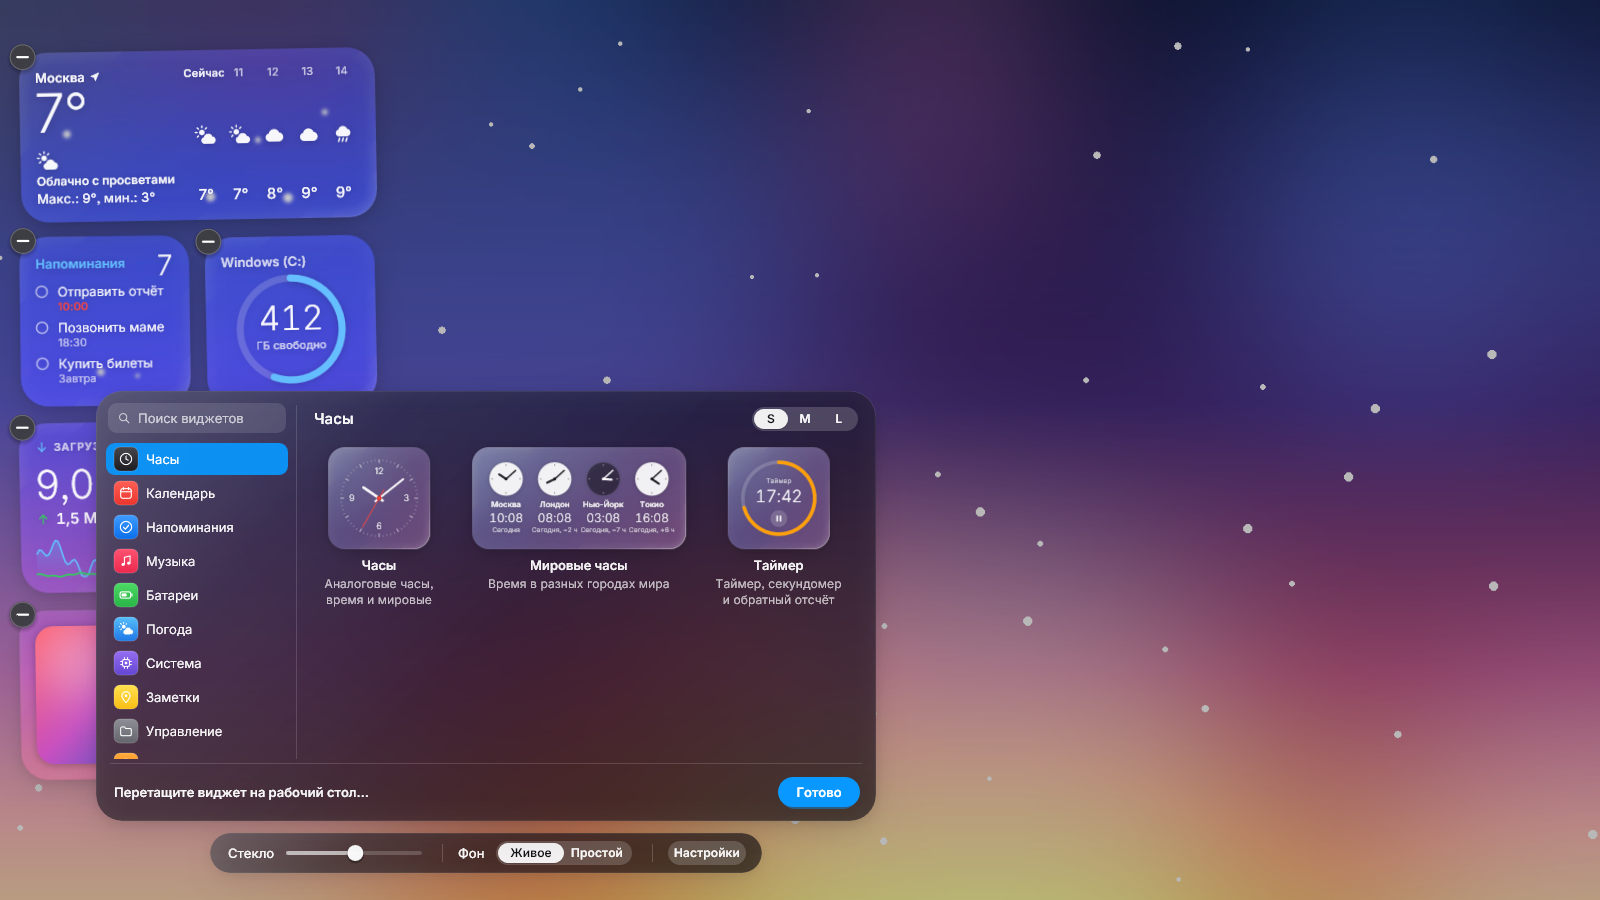
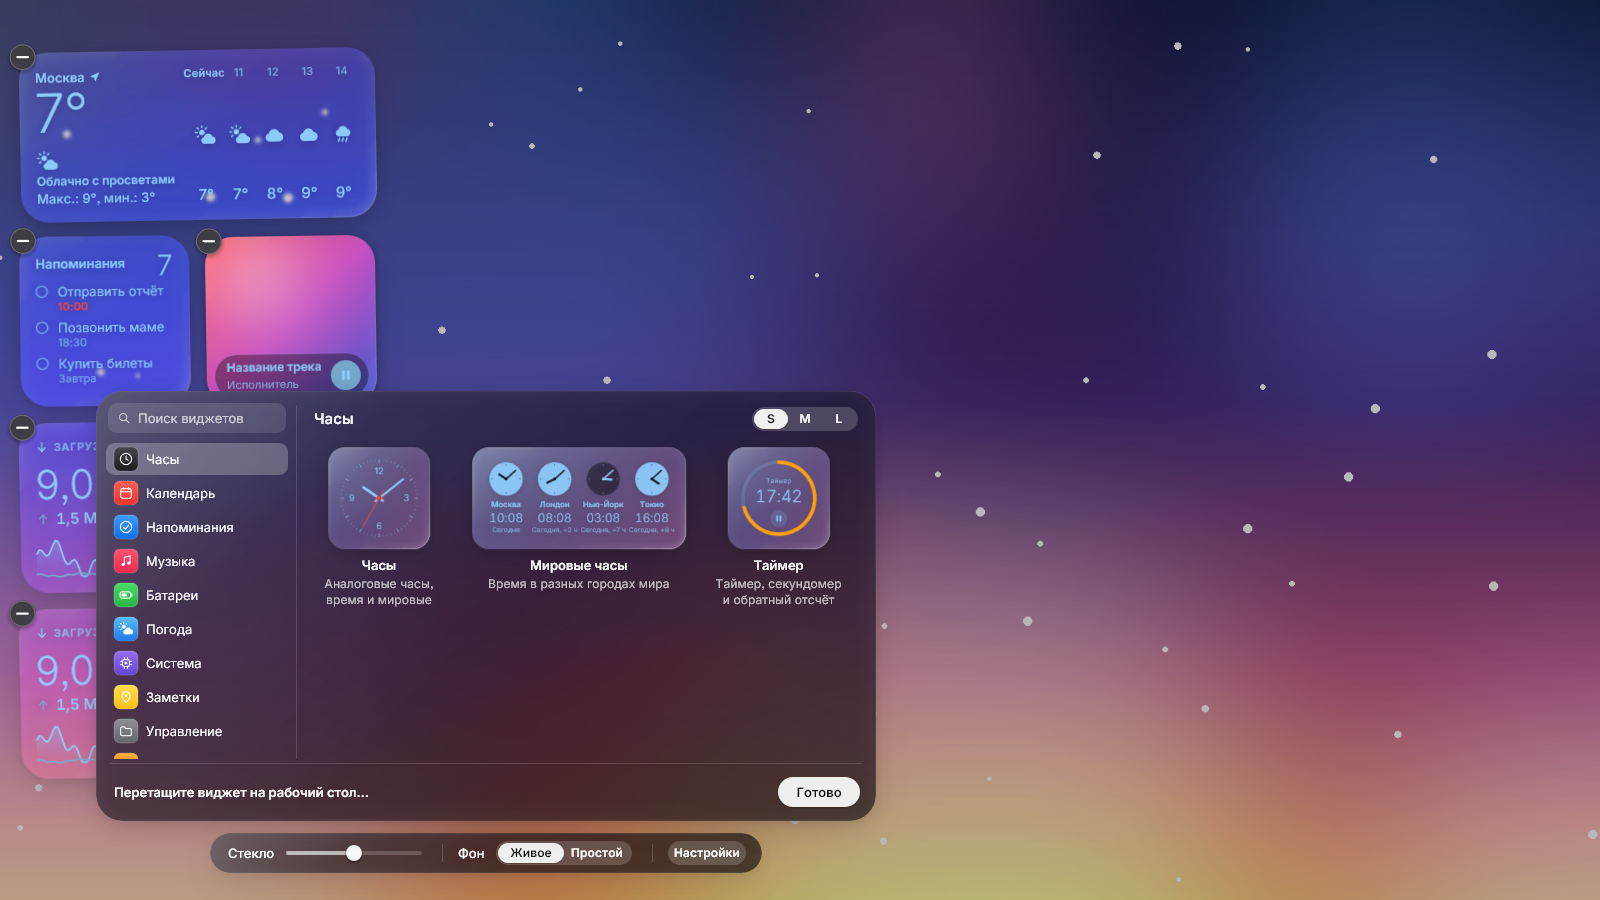
Release 0.5.4: neutral gallery and settings chrome
Panels draw through a plain Cx that ignores accentScope "all"; selection, Done,
the add badge and focus rings are white glass instead of the wallpaper accent.
Removed accent_fill / accent::fill (no callers left).

Claude-Session: https://claude.ai/code/session_01KhjhPemefduzY42RFZvTNC

diff --git a/src/ui.rs b/src/ui.rs
@@ -281,6 +281,18 @@ pub struct Ui {
 }
 
 /// Per-group sidebar icon colours (top, bottom).
+/// Selected row of the gallery: a lighter glass, no accent (the panels stay neutral on any wallpaper).
+const SEL: Color = Color::rgba(1.0, 1.0, 1.0, 0.24);
+/// Text on a white button / segment.
+const ON_WHITE: Color = Color::rgba(0.07, 0.07, 0.09, 1.0);
+
+/// The "Done" button of both panels: white glass pill with dark text (like the selected segment).
+fn done_button(cx: &Cx, r: Rect, label: &str, hot: bool) {
+    cx.pill(r.offset(0.0, 1.5), Color::rgba(0.0, 0.0, 0.0, 0.20));
+    cx.pill(r, Color::rgba(1.0, 1.0, 1.0, if hot { 1.0 } else { 0.92 }));
+    cx.text(r, label, Style::new(13.0, 600).center(), ON_WHITE);
+}
+
 fn group_colors(id: &str) -> (Color, Color) {
     let c = |r: u8, g: u8, b: u8| Color::rgb8(r, g, b);
     match id {
@@ -1300,7 +1312,7 @@ impl Ui {
                 cx.pill(c.offset(0.0, 1.0), Color::rgba(0.0, 0.0, 0.0, 0.18));
                 cx.pill(c, Color::rgba(1.0, 1.0, 1.0, 0.92));
             }
-            cx.text(c, txt, Style::new(11.5, 600).center(), if *on { Color::rgba(0.07, 0.07, 0.09, 1.0) } else { TEXT });
+            cx.text(c, txt, Style::new(11.5, 600).center(), if *on { ON_WHITE } else { TEXT });
         }
     }
 
@@ -1344,7 +1356,7 @@ impl Ui {
             cx.circle((kx, tb.track.cy() + 1.5), 9.0, Color::rgba(0.0, 0.0, 0.0, 0.25));
             cx.circle((kx, tb.track.cy()), 8.0, Color::rgba(1.0, 1.0, 1.0, 0.97));
             if self.sfocus == Some(0) {
-                cx.circle_stroke((kx, tb.track.cy()), 11.5, 2.0, accent().alpha(0.95));
+                cx.circle_stroke((kx, tb.track.cy()), 11.5, 2.0, Color::rgba(1.0, 1.0, 1.0, 0.70));
             }
             cx.rect(tb.sep, FILL);
             cx.text(tb.label_bg, self.t("Фон", "Back"), Style::new(12.5, 500), TEXT);
@@ -1378,7 +1390,7 @@ impl Ui {
         cx.circle((kx, t.cy() + 1.5), kr + 1.0, Color::rgba(0.0, 0.0, 0.0, 0.25));
         cx.circle((kx, t.cy()), kr, Color::rgba(1.0, 1.0, 1.0, 0.97));
         if focus {
-            cx.circle_stroke((kx, t.cy()), kr + 3.5, 2.0, accent().alpha(0.95));
+            cx.circle_stroke((kx, t.cy()), kr + 3.5, 2.0, Color::rgba(1.0, 1.0, 1.0, 0.70));
         }
     }
 
@@ -1493,12 +1505,10 @@ impl Ui {
             cx.text(l.upd_status, &msg, Style::new(12.0, 500).ellipsis(), color);
             if matches!(self.update, UpdateState::Available { .. }) {
                 self.set_button(cx, l.upd_page, self.t("О релизе", "Release page"), hv == Hit::UpdPage, pr == Hit::UpdPage, DIM);
-                self.set_button(cx, l.upd_dl, self.t("Обновить", "Update now"), hv == Hit::UpdInstall, pr == Hit::UpdInstall, accent());
+                self.set_button(cx, l.upd_dl, self.t("Обновить", "Update now"), hv == Hit::UpdInstall, pr == Hit::UpdInstall, TEXT);
             }
             let hot = hv == Hit::Done || pr == Hit::Done;
-            cx.pill(l.done.offset(0.0, 2.0).inset_xy(2.0, 0.0), accent_fill(false).alpha(0.40));
-            cx.pill(l.done, accent_fill(hot));
-            cx.text(l.done, self.t("Готово", "Done"), Style::new(13.0, 600).center(), WHITE);
+            done_button(cx, l.done, self.t("Готово", "Done"), hot);
         });
         if layer {
             unsafe { gfx.dc.PopLayer() };
@@ -1522,8 +1532,8 @@ impl Ui {
             let focus = self.st.focus;
             cx.rrect(l.search, 9.0, Color::rgba(1.0, 1.0, 1.0, if focus { 0.16 } else { 0.12 }));
             if focus {
-                cx.rrect_stroke(l.search.inset(-2.0), 11.0, 3.0, accent().alpha(0.30));
-                cx.rrect_stroke(l.search, 9.0, 1.6, accent().alpha(0.95));
+                cx.rrect_stroke(l.search.inset(-2.0), 11.0, 3.0, Color::rgba(1.0, 1.0, 1.0, 0.16));
+                cx.rrect_stroke(l.search, 9.0, 1.4, Color::rgba(1.0, 1.0, 1.0, 0.70));
             }
             cx.icon(Glyph::Search, Rect::new(l.search.x + 9.0, l.search.cy() - 7.0, 14.0, 14.0), DIM);
             let text_area = Rect::new(l.search.x + 30.0, l.search.y, l.search.w - 38.0, l.search.h);
@@ -1535,7 +1545,7 @@ impl Ui {
             } else {
                 let tw = cx.measure(&q, Style::BODY, 4096.0).0;
                 if self.st.query.sel_all {
-                    cx.rrect(Rect::new(text_area.x - off - 1.0, text_area.cy() - 9.0, tw + 2.0, 18.0), 4.0, accent_fill(false).alpha(0.75));
+                    cx.rrect(Rect::new(text_area.x - off - 1.0, text_area.cy() - 9.0, tw + 2.0, 18.0), 4.0, Color::rgba(1.0, 1.0, 1.0, 0.30));
                 }
                 cx.text(Rect::new(text_area.x - off, text_area.y, 4096.0, text_area.h), &q, Style::BODY, TEXT);
             }
@@ -1557,7 +1567,7 @@ impl Ui {
                 }
                 let sel = !searching && cur == Some(g.id);
                 if sel {
-                    cx.rrect(r, 9.0, accent_fill(false).alpha(0.92));
+                    cx.rrect(r, 9.0, SEL);
                 } else if self.hover == Hit::Group(i) {
                     cx.rrect(r, 9.0, FILL);
                 }
@@ -1605,9 +1615,9 @@ impl Ui {
                     cx.rrect_stroke(it.pv.inset(-2.0), 17.0 * K + 2.0, 1.4, Color::rgba(1.0, 1.0, 1.0, 0.35));
                     let b = (it.pv.x + 14.0, it.pv.y + 14.0);
                     cx.circle((b.0, b.1 + 1.0), 12.0, Color::rgba(0.0, 0.0, 0.0, 0.25));
-                    cx.circle(b, 11.0, accent_fill(false).alpha(0.97));
-                    cx.line((b.0 - 4.6, b.1), (b.0 + 4.6, b.1), 1.9, WHITE);
-                    cx.line((b.0, b.1 - 4.6), (b.0, b.1 + 4.6), 1.9, WHITE);
+                    cx.circle(b, 11.0, Color::rgba(1.0, 1.0, 1.0, 0.95));
+                    cx.line((b.0 - 4.6, b.1), (b.0 + 4.6, b.1), 1.9, ON_WHITE);
+                    cx.line((b.0, b.1 - 4.6), (b.0, b.1 + 4.6), 1.9, ON_WHITE);
                 }
                 cx.text(it.title, self.t(def.name.0, def.name.1), Style::new(12.5, 600).center().ellipsis(), TEXT);
                 cx.clip(it.desc);
@@ -1620,9 +1630,7 @@ impl Ui {
             cx.rect(Rect::new(p.x + 14.0, p.bottom() - FOOT_H, p.w - 28.0, 0.8), FILL);
             cx.text(l.hint, self.t("Перетащите виджет на рабочий стол…", "Drag a widget to place it on the desktop…"), Style::new(12.5, 600).ellipsis(), TEXT);
             let hot = self.hover == Hit::Done || self.press == Hit::Done;
-            cx.pill(l.done.offset(0.0, 2.0).inset_xy(2.0, 0.0), accent_fill(false).alpha(0.40));
-            cx.pill(l.done, accent_fill(hot));
-            cx.text(l.done, self.t("Готово", "Done"), Style::new(13.0, 600).center(), WHITE);
+            done_button(cx, l.done, self.t("Готово", "Done"), hot);
         });
         if layer {
             unsafe { gfx.dc.PopLayer() };
@@ -1725,24 +1733,6 @@ mod tests {
         let s0 = ui.panel_rect();
         ui.move_panel(10.0, 10.0);
         assert!(ui.panel_rect().x < s0.x && ui.gallery_rect().y == p.y);
-    }
-
-    /// The panel chrome (Done, selection, focus rings) and the text prompt's accent take the colour of `set_accent`, not a fixed blue. This is the only
-    /// test that moves the process-wide accent (it puts the default back).
-    #[test]
-    fn panel_chrome_follows_the_accent() {
-        set_accent(None);
-        let (blue, blue_hot, blue_ring, blue_prompt) = (accent_fill(false), accent_fill(true), accent(), crate::input::acc(1.0));
-        assert!(blue.b > blue.r && blue_ring.b > blue_ring.r && blue_prompt.b > blue_prompt.r);
-        assert!(blue_hot.r + blue_hot.g + blue_hot.b > blue.r + blue.g + blue.b, "hover is lighter");
-        assert!(set_accent(Some([230, 70, 70])), "a new accent reports a change");
-        let (red, red_hot, red_ring, red_prompt) = (accent_fill(false), accent_fill(true), accent(), crate::input::acc(1.0));
-        for c in [red.r > red.b && red.r > red.g, red_hot.r > red_hot.b, red_ring.r > red_ring.b && red_ring.r > red_ring.g, red_prompt.r > red_prompt.b && red_prompt.r > red_prompt.g] {
-            assert!(c, "chrome stays blue after set_accent");
-        }
-        assert!((red_ring.r, red_ring.g, red_ring.b) == (red_prompt.r, red_prompt.g, red_prompt.b) && red.r < red_ring.r + 0.01 && red.r + red.g + red.b < red_ring.r + red_ring.g + red_ring.b, "the fill is the deeper shade of the ring");
-        set_accent(None);
-        assert_eq!((accent_fill(false).b > accent_fill(false).r, accent().b > accent().r), (true, true));
     }
 
     /// The hit map of edit mode on a real scene: card body, "−" button, gallery controls, previews, settings strip, empty desk.

diff --git a/src/widget.rs b/src/widget.rs
@@ -399,13 +399,6 @@ pub fn accent() -> Color {
 pub fn set_accent(rgb: Option<[u8; 3]>) -> bool {
     ACCENT_NOW.swap(pack_rgb(rgb.unwrap_or(ACCENT_RGB)), Ordering::Relaxed) != pack_rgb(rgb.unwrap_or(ACCENT_RGB))
 }
-/// The accent for the panels' chrome that carries white text or a selection (Done, the selected gallery group, the add badge): the same hue
-/// as `accent()`, darker so white reads on it; `hot` = lighter (pointer over it).
-pub fn accent_fill(hot: bool) -> Color {
-    let v = ACCENT_NOW.load(Ordering::Relaxed);
-    let c = crate::accent::fill([(v >> 16) as u8, (v >> 8) as u8, v as u8], if hot { 0.07 } else { 0.0 });
-    Color::rgb8(c[0], c[1], c[2])
-}
 /// dark text on a light/cream fill (today circle, buttons)
 pub const INK: Color = Color::rgba(20.0 / 255.0, 20.0 / 255.0, 24.0 / 255.0, 0.92);
 pub const BLACK: Color = Color::rgba(0.0, 0.0, 0.0, 1.0);
@@ -802,6 +795,8 @@ pub struct Cx<'a> {
     clips: RefCell<Vec<bool>>,
     /// the card is in its light (milky glass) appearance: palette whites become dark ink (see `Cx::ink`)
     light: bool,
+    /// host chrome (gallery, settings, strip): never tinted by `accentScope` "all"
+    pub(crate) plain: bool,
 }
 
 /// Row-vector matrix product: apply `a` first, then `b`.
@@ -866,6 +861,7 @@ impl<'a> Cx<'a> {
             cur: Cell::new(p.base),
             clips: RefCell::new(Vec::new()),
             light: p.light,
+            plain: false,
         }
     }
 
@@ -993,7 +989,7 @@ impl<'a> Cx<'a> {
     /// deeper. Identity in the dark appearance.
     fn ink(&self, c: Color) -> Color {
         let c = self.ink_plain(c);
-        if TINT.load(Ordering::Relaxed) {
+        if !self.plain && TINT.load(Ordering::Relaxed) {
             tinted(c, self.light)
         } else {
             c

diff --git a/src/accent.rs b/src/accent.rs
@@ -110,14 +110,6 @@ fn hsl_to_rgb(h: f32, s: f32, l: f32) -> [f32; 3] {
     [r + m, g + m, b + m]
 }
 
-/// A fill for chrome that carries white text, from the accent: the same hue and saturation, lightness lowered by .18 into .38 ..= .55
-/// (the default accent comes out as a deep sky blue); `lift` adds lightness (hover).
-pub fn fill(rgb: [u8; 3], lift: f32) -> [u8; 3] {
-    let (h, s, l) = rgb_to_hsl(rgb[0] as f32 / 255.0, rgb[1] as f32 / 255.0, rgb[2] as f32 / 255.0);
-    let out = hsl_to_rgb(h, s, ((l - 0.18).clamp(0.38, 0.55) + lift).min(0.9));
-    [(out[0] * 255.0).round() as u8, (out[1] * 255.0).round() as u8, (out[2] * 255.0).round() as u8]
-}
-
 // ---------------------------------------------------------------- the wallpaper
 
 /// The current wallpaper file and its modification time (a slideshow rewrites the same transcoded file, so the time matters too).
@@ -203,17 +195,6 @@ mod tests {
         // the default accent itself is inside the band: a pure sky blue wallpaper comes out as about the default
         let (h, _, _) = hsl(pick(&solid([100, 190, 255], 100)).unwrap());
         assert!((h - 205.0).abs() < 6.0, "{h}");
-    }
-
-    #[test]
-    fn chrome_fill_keeps_the_hue_and_is_dark_enough_for_white_text() {
-        for rgb in [[100u8, 190, 255], [235, 90, 90], [90, 220, 120], [200, 120, 240], [225, 200, 40], [0, 120, 200]] {
-            let (h0, _, _) = hsl(rgb);
-            let (h, _, l) = hsl(fill(rgb, 0.0));
-            assert!((h - h0).abs() < 3.0 && (0.37..=0.56).contains(&l), "{rgb:?} h {h} l {l}");
-            let hot = hsl(fill(rgb, 0.07)).2;
-            assert!(hot > l + 0.05, "{rgb:?}: hover is lighter");
-        }
     }
 
     #[test]

diff --git a/src/cards.rs b/src/cards.rs
@@ -1407,7 +1407,8 @@ impl Scene {
     pub fn with_ui_cx<R>(&self, gfx: &Gfx, base: Matrix3x2, lang: Lang, now: &Now, f: impl FnOnce(&Cx) -> R) -> R {
         let mut cfg = json!({});
         let flags = Flags::default();
-        let cx = Cx::new(CxParts { gfx, res: &self.sh.res, flags: &flags, cfg: &mut cfg, size: Size::S, scale: self.s, now: *now, preview: true, lum: 0.2, lang, hover: None, waker: Waker::default(), utc_off: 0, base, light: false });
+        let mut cx = Cx::new(CxParts { gfx, res: &self.sh.res, flags: &flags, cfg: &mut cfg, size: Size::S, scale: self.s, now: *now, preview: true, lum: 0.2, lang, hover: None, waker: Waker::default(), utc_off: 0, base, light: false });
+        cx.plain = true;
         unsafe { gfx.dc.SetTransform(&base) };
         let r = f(&cx);
         cx.finish();

diff --git a/CHANGELOG.md b/CHANGELOG.md
@@ -1,5 +1,10 @@
 # Changelog
 
+## [0.5.4] - 2026-10-25
+
+### Changed
+- The gallery, the strip and the settings panel are neutral: "Accent on: Everywhere" no longer tints their text and icons, and the selection, the Done button, the add badge and the focus rings are white glass instead of the wallpaper accent. The accent stays in the widgets.
+
 ## [0.5.3] - 2026-10-25
 
 ### Changed
